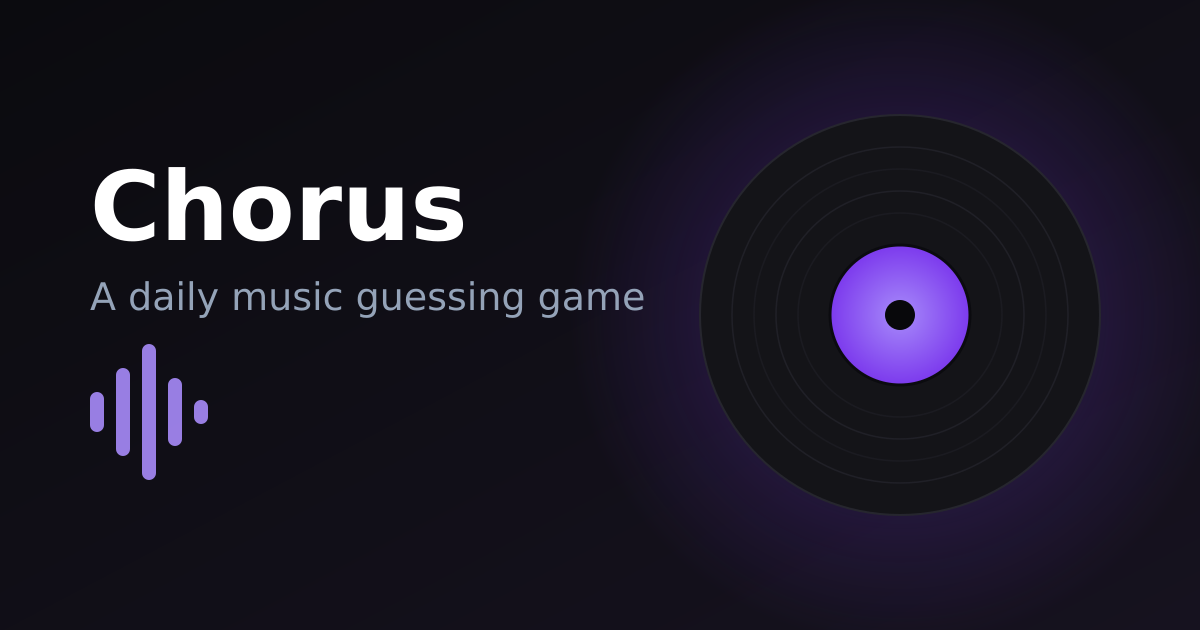
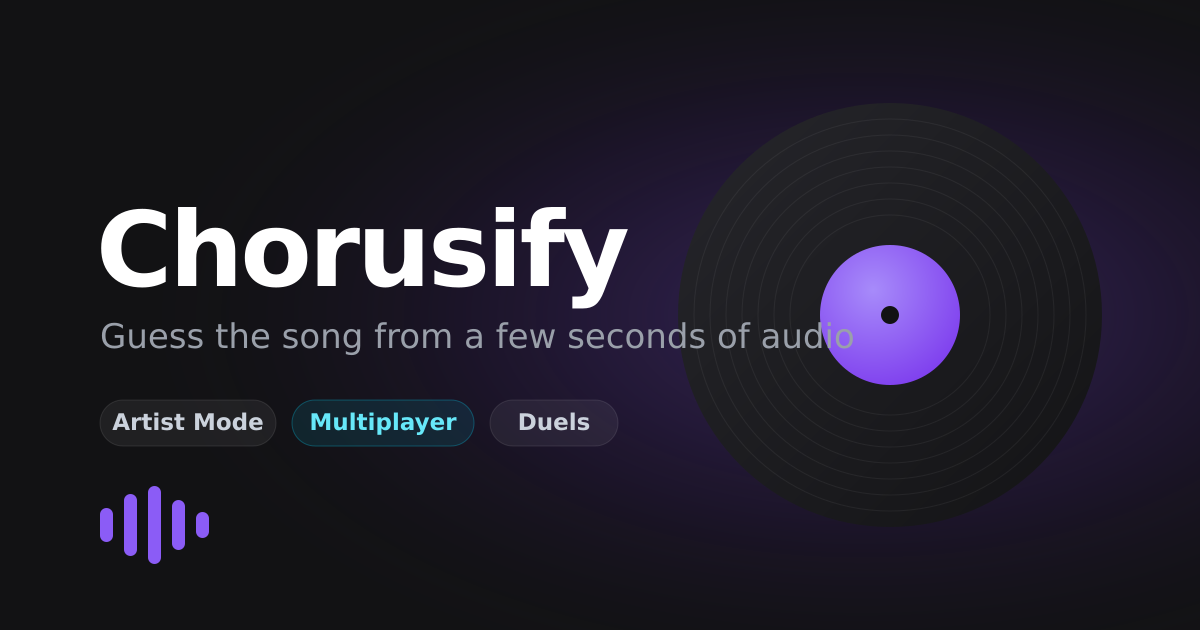
Fix the social card: correct branding, and preview room invites properly
Two problems with the same shared link.

The card art still read "Chorus" and "A daily music guessing game". The app
is Chorusify, and it has not been daily-only for a long time — most shared
links are rooms and artist challenges, which that tagline described not at
all. Redrawn in the app's own palette with the real name, a tagline that
covers the whole game, and a strip naming the modes. The SVG source is kept
next to the PNG so the next edit is not a fresh trace.

Room links had no preview case and fell through to the generic site card,
which says nothing about an invitation — the one link type whose entire
purpose is being pasted at people, and someone glancing at it in a group
chat had no reason to think it was for them. They now read "Join the
Chorusify room TBTA6F". The code sits in the title because it doubles as
the manual fallback: if a chat client mangles the link it can still be
typed into the join box.

Verified against the served HTML, not just the unit tests, since the whole
point is what a crawler sees.

diff --git a/apps/server/test/unit/ogTags.test.ts b/apps/server/test/unit/ogTags.test.ts
@@ -88,6 +88,25 @@ describe('previewFor', () => {
     expect((await previewFor('/play')).title).toBe("Today's challenge on Chorusify");
   });
 
+  /* Room links are the most-pasted thing in the app, and previewed as the generic site card —
+     nothing about them said "this is an invitation for you". */
+  it('invites the reader by name and code for a room link', async () => {
+    const preview = await previewFor('/room/TBTA6F');
+    expect(preview.title).toBe('Join the Chorusify room TBTA6F');
+    expect(preview.description).toContain('Race your friends');
+  });
+
+  it('upper-cases a room code, since that is how codes are shown and typed', async () => {
+    expect((await previewFor('/room/tbta6f')).title).toBe('Join the Chorusify room TBTA6F');
+  });
+
+  it('ignores a path that only looks like a room', async () => {
+    // Not a code shape — better the site card than an invitation to a room that cannot exist.
+    expect((await previewFor('/room/not-a-real-code!')).title).toBe(
+      'Chorusify: guess your favourite music',
+    );
+  });
+
   it('falls back to the site card for everything else', async () => {
     for (const route of ['/', '/leaderboard', '/admin', '/nonsense']) {
       expect((await previewFor(route)).title).toBe('Chorusify: guess your favourite music');

diff --git a/apps/server/src/middleware/ogTags.ts b/apps/server/src/middleware/ogTags.ts
@@ -111,6 +111,23 @@ export async function previewFor(pathname: string): Promise<Preview> {
     };
   }
 
+  /*
+   * Room invites are the most-shared link there is — the whole point of a room is pasting it at
+   * people — and they were previewing as the generic site card, which says nothing about an
+   * invitation. Someone glancing at it in a group chat had no reason to think it was for them.
+   *
+   * The code goes in the title because it doubles as the manual fallback: if the link is
+   * mangled by a chat client, it can still be typed into the join box.
+   */
+  const roomMatch = /^\/room\/([A-Za-z0-9]{4,12})\/?$/.exec(pathname);
+  if (roomMatch) {
+    const code = roomMatch[1]!.toUpperCase();
+    return {
+      title: `Join the Chorusify room ${code}`,
+      description: 'Race your friends to name songs from a few seconds of audio. Tap to join.',
+    };
+  }
+
   return DEFAULT_PREVIEW;
 }
 
